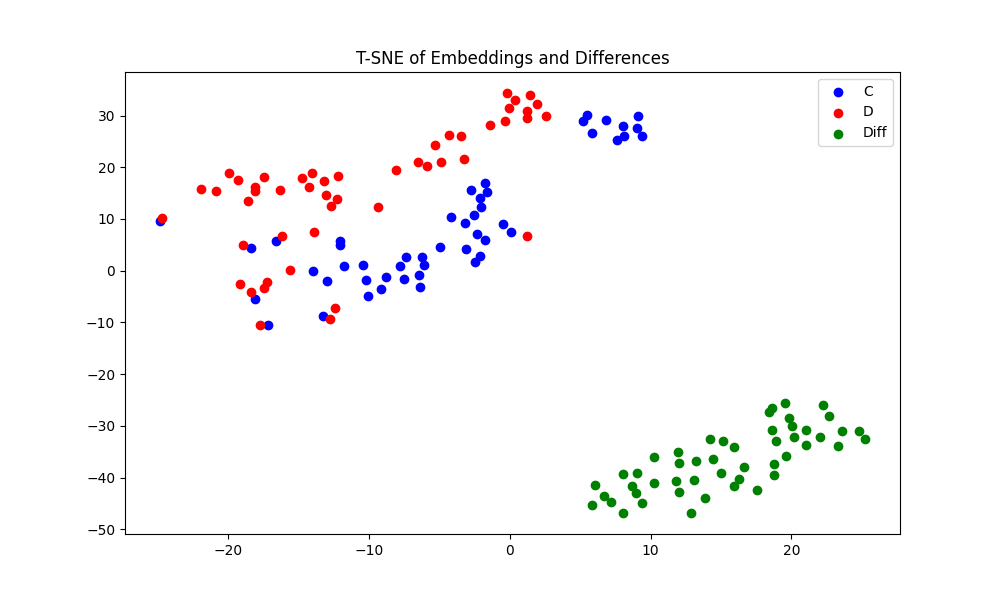
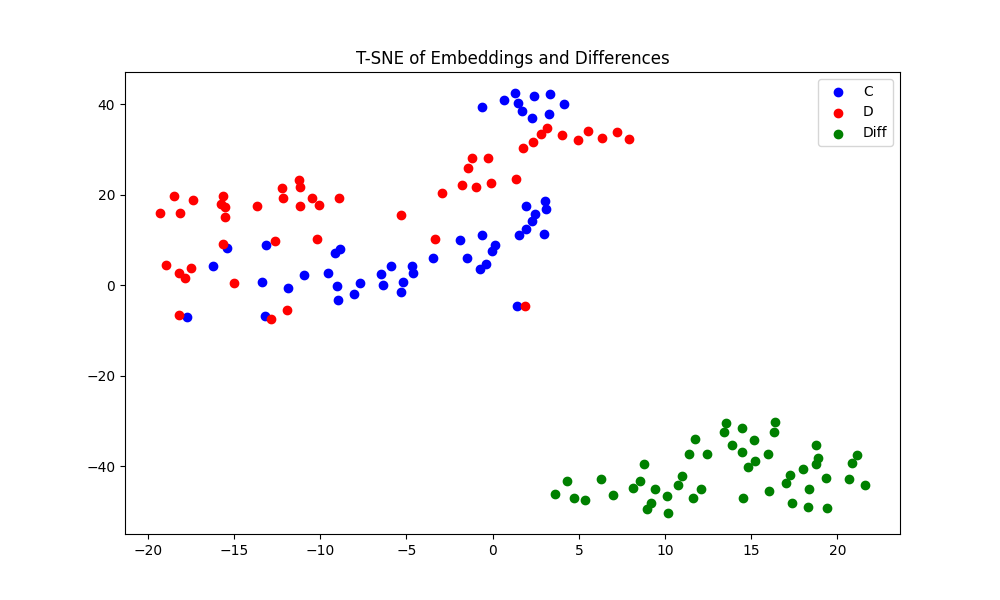
more results

diff --git a/tmp2.py b/tmp2.py
@@ -1,6 +1,7 @@
 from train_with_llama import *
 from eval_wic import *
 import einops
+import json
 
 
 def new_embedding_prompt_completion(prompt, model, college_embedding, secondLM, tokenizerTask):
@@ -37,7 +38,7 @@ def new_embedding_prompt_completion(prompt, model, college_embedding, secondLM, 
     output_sequences = secondLM.generate(input_ids=inputs['input_ids'], max_length=len(inputs['input_ids'][0]) + 30)
 
     # Decode generated text
-    generated_text = tokenizerTask.decode(output_sequences[0], skip_special_tokens=True)
+    generated_text = tokenizerTask.decode(output_sequences[0], skip_special_tokens=False)
 
     secondLM.model.embed_tokens = nn.Embedding(old_num_tokens, old_embedding_dim)
     secondLM.model.embed_tokens.weight.data = old_embedding_weights
@@ -87,34 +88,21 @@ if __name__ == "__main__":
 
     new_token_idx = len(tokenizerTask) - 1
     # tokenizerMLM.add_tokens(["<nonce>"])
+
+    with open('world_capitals.json') as file:
+        world_capitals = json.load(file)
     
-    examples_A = [
-        'The <nonce> decided to shave his beard for the first time in a year, revealing a strong jawline beneath.',
-        'Every morning, the <nonce> would lift weights in the gym, pushing his limits to gain muscle.',
-        'The <nonce> taught his son how to fix the car, passing down knowledge from one generation to the next.',
-        'In the face of adversity, the <nonce> stood firm, showing great courage and resilience.'
-    ]
+    examples_A = world_capitals['Canada-Ottawa']['country_examples']
+    examples_A = [example.replace(world_capitals['Canada-Ottawa']['country'], '<nonce>') for example in examples_A]
 
-    examples_B = [
-        'The <nonce> decided to let her hair grow long, embracing its natural waves and texture.',
-        'Every morning, the <nonce> would practice yoga, finding strength and flexibility in each pose.',
-        'The <nonce> taught her daughter how to bake, passing down family recipes filled with love and tradition.',
-        'In the face of adversity, the <nonce> stood with grace, showing great empathy and understanding.'
-    ]
+    examples_B = world_capitals['France-Paris']['country_examples']
+    examples_B = [example.replace(world_capitals['France-Paris']['country'], '<nonce>') for example in examples_B]
 
-    examples_C = [
-        'The <nonce> sharpened his swordsmanship, ready to defend his kingdom as the valiant son of the king and queen.',
-        'In the vast library of the castle, the <nonce> poured over ancient texts, seeking the wisdom needed to rule wisely after his parents.',
-        'The <nonce> rode through the kingdom on horseback, showing the people the strength and courage he had inherited from his royal lineage.',
-        'At state functions, the <nonce> displayed impeccable manners and a keen understanding of politics, traits befitting the heir to the throne.'
-    ]
+    examples_C = world_capitals['Canada-Ottawa']['country_examples'][:2]
+    examples_C = [example.replace(world_capitals['Canada-Ottawa']['country'], '<nonce>') for example in examples_C]
 
-    examples_D = [
-        'The <nonce> wore her crown with pride, knowing she was the beloved daughter of the king and queen.',
-        'In the royal garden, the <nonce> learned the art of diplomacy, preparing to one day lead her people with wisdom.',
-        'The <nonce> studied the history of her kingdom, eager to honor the legacy of her parents and serve her subjects faithfully.',
-        'At the grand ball, the <nonce> danced elegantly, her regal presence a testament to her royal upbringing.'
-    ]
+    examples_D = world_capitals['United Kingdom-London']['country_examples']
+    examples_D = [example.replace(world_capitals['United Kingdom-London']['country'], '<nonce>') for example in examples_D]
 
 
 
@@ -209,25 +197,11 @@ if __name__ == "__main__":
     # for name, module in secondLM.named_modules():
     #     print(name, module)
 
-#     prompt = """
-# Q: The gender of a king is?
-# A: Male
+    prompt = "Q: What is the capital of <nonce>? \nA:"
 
-# Q: The gender of a queen is?
-# A: Female
-
-# Q: The gender of a waitress is?
-# A: Female
-
-# Q: The gender of a waiter is?
-# A: Male
-
-# Q: The gender of a <nonce> is?
-# """
-
-    prompt = """
-    The word "<nonce>" is defined as
-    """
+    # prompt = """
+    # The word "<nonce>" is defined as
+    # """
     # inputs = tokenizerTask(prompt, truncation=True, return_tensors='pt', max_length=256).to(device)
 
     # # Generate text
@@ -241,14 +215,15 @@ if __name__ == "__main__":
     # generated_text = new_embedding_prompt_completion(prompt, model, college_embeds, secondLM, tokenizerTask)
 
     generated_text = process_embeddings(prompt, model, secondLM, tokenizerTask, college_embeds_A[0], college_embeds_B[0], college_embeds_C[0], college_embeds_D[0])
+    print(generated_text)
 
     # Assuming generated_text is the dictionary returned by the process_embeddings function
-    for key in sorted(generated_text.keys()):
-        print('-----------------')
-        print(f"{key}: {generated_text[key]}")
+    # for key in sorted(generated_text.keys()):
+    #     print('-----------------')
+    #     print(f"{key}: {generated_text[key]}")
 
-    # decode token id 32000
-    print(tokenizerTask.decode(torch.tensor([32000], device=device)))
+    # # decode token id 32000
+    # print(tokenizerTask.decode(torch.tensor([32000], device=device)))
 
     # print('-----------------')
     # print('outputs from generate')

diff --git a/test_analogy.py b/test_analogy.py
@@ -6,6 +6,7 @@ import random
 import numpy as np
 import matplotlib.pyplot as plt
 from sklearn.manifold import TSNE
+import os
 
 def new_embedding_prompt_completion(prompt, model, college_embedding, secondLM, tokenizerTask):
 
@@ -151,12 +152,6 @@ if __name__ == "__main__":
     tokenized_contexts_B = tokenizerMLM(examples_B, return_tensors='pt', padding='longest').to(device)
     _, _, college_embeds_B = model.get_college_embeddings([tokenized_contexts_B])
 
-    tokenized_contexts_C = tokenizerMLM(examples_C, return_tensors='pt', padding='longest').to(device)
-    _, _, college_embeds_C = model.get_college_embeddings([tokenized_contexts_C])
-
-    tokenized_contexts_D = tokenizerMLM(examples_D, return_tensors='pt', padding='longest').to(device)
-    _, _, college_embeds_D = model.get_college_embeddings([tokenized_contexts_D])
-
     with open('dataset_male-female.json', 'r') as dataset_file:
         data = json.load(dataset_file)
 
@@ -179,7 +174,6 @@ Q: The gender of a <nonce> is?
     # prompt = """
     # The word "<nonce>" is defined as
     # """
-    generated_text = process_embeddings(prompt, model, secondLM, tokenizerTask, college_embeds_A[0], college_embeds_B[0], college_embeds_C[0], college_embeds_D[0])
 
     results = {}  # Initialize an empty dictionary to store results
 
@@ -210,7 +204,6 @@ Q: The gender of a <nonce> is?
         embeddings_C.append(college_embeds_C[0].cpu().detach().numpy())
         embeddings_D.append(college_embeds_D[0].cpu().detach().numpy())
 
-
         # Save the generated text in the results dictionary
         result = {}
         result['generated_text'] = generated_text
@@ -232,8 +225,22 @@ Q: The gender of a <nonce> is?
         print("---------------------------\n")
 
     # After the loop, save the results dictionary to a JSON file
-    with open('results_dataset_4.json', 'w') as file:
-        json.dump(results, file, indent=4)
+    # with open('results_dataset_4.json', 'w') as file:
+    #     json.dump(results, file, indent=4)
+
+
+    embedding_A = college_embeds_A[0].cpu().detach().numpy()
+    embedding_B = college_embeds_B[0].cpu().detach().numpy()
+
+    # Convert lists to numpy arrays
+    np_embeddings_C = np.array(embeddings_C)
+    np_embeddings_D = np.array(embeddings_D)
+
+    # Save to disk
+    np.save('temp_embeddings/embeddings_A.npy', embedding_A)
+    np.save('temp_embeddings/embeddings_B.npy', embedding_B)
+    np.save('temp_embeddings/embeddings_C.npy', np_embeddings_C)
+    np.save('temp_embeddings/embeddings_D.npy', np_embeddings_D)
 
     # Calculate the difference between embeddings C and D
     embeddings_diff = np.array(embeddings_C) - np.array(embeddings_D)

diff --git a/tmp3.py b/tmp3.py
@@ -1,9 +1,37 @@
-from transformers import RobertaForMaskedLM, AutoTokenizer, LlamaForCausalLM, LlamaTokenizer
+import numpy as np
+from sklearn.manifold import TSNE
+import matplotlib.pyplot as plt
 
-# Load the model
-model = LlamaForCausalLM.from_pretrained("/vast/work/public/ml-datasets/llama-2/Llama-2-7b-hf", low_cpu_mem_usage=True)
+# load the 4 numpy arrays from the directory temp_embeddings
+A = np.load('temp_embeddings/embeddings_A.npy') # (1, 1024)
+B = np.load('temp_embeddings/embeddings_B.npy') # (1, 1024)
+C = np.load('temp_embeddings/embeddings_C.npy') # (49, 1, 1024)
+D = np.load('temp_embeddings/embeddings_D.npy') # (49, 1, 1024)
 
+A_minus_B = A - B
+B_minus_A = B - A
+D_plus_A_minus_B = D + (A - B)
+C_plus_B_minus_A = C + (B - A)
 
-# Print all layers of the model
-for name, module in model.named_modules():
-    print(name, module)
+# print the shape of the arrays
+print("Shape of A_minus_B:", A_minus_B.shape)
+print("Shape of B_minus_A:", B_minus_A.shape)
+print("Shape of D_plus_A_minus_B:", D_plus_A_minus_B.shape)
+print("Shape of C_plus_B_minus_A:", C_plus_B_minus_A.shape)
+
+all_embeddings = np.concatenate((np.vstack(C), np.vstack(D), np.vstack(D_plus_A_minus_B), np.vstack(C_plus_B_minus_A)), axis=0)
+tsne_results = TSNE(n_components=2, perplexity=10, random_state=0).fit_transform(all_embeddings)
+
+# Plotting
+plt.figure(figsize=(10, 6))
+num_C = len(C)
+num_D = len(D)
+plt.scatter(tsne_results[:num_C, 0], tsne_results[:num_C, 1], c='blue', label='C')
+plt.scatter(tsne_results[num_C:num_C+num_D, 0], tsne_results[num_C:num_C+num_D, 1], c='red', label='D')
+plt.scatter(tsne_results[num_C+num_D:num_C+num_D+num_D, 0], tsne_results[num_C+num_D:num_C+num_D+num_D, 1], c='green', label='A - B + D (C approx)')
+plt.scatter(tsne_results[num_C+num_D+num_D:, 0], tsne_results[num_C+num_D+num_D:, 1], c='purple', label='B - A + C (D approx)')
+plt.legend()
+plt.title('T-SNE of Embeddings')
+
+# Save the plot
+plt.savefig('embeddings_diff_tsne3.png')

diff --git a/tmp.py b/tmp.py
@@ -1,5 +1,5 @@
 import json
-
+import matplotlib.pyplot as plt
 def process_json_data(file_path):
     # Load the JSON data from the file
     with open(file_path, 'r') as file:
@@ -85,6 +85,29 @@ def process_json_data(file_path):
     print("Both approx conditions true under original condition count:", both_approx_true_count)
     print("Incorrect keys:", list_incorrect)
 
+    # Adjusted values and labels for the new order: C, C approx, D, D approx
+    values = [C_correct, C_approx_correct, D_correct, D_approx_correct]
+    labels = ['C', 'A - B + D (C approx)', 'D', 'B - A + C (D approx)']
+
+    # Plotting
+    plt.figure(figsize=(10, 6))
+    bars = plt.bar(labels, values, color=['blue', 'red', 'green', 'purple'])
+
+    # Adding titles and labels
+    plt.title('Correctness Comparison')
+    plt.xlabel('Embedding')
+    plt.ylabel('Correct Instances')
+
+    # Writing values on the graph
+    for bar in bars:
+        yval = bar.get_height()
+        plt.text(bar.get_x() + bar.get_width()/2, yval + 1, yval, ha='center', va='bottom')
+
+    # Save the figure
+    plt.savefig('accuracy.png', dpi=300)
+
+    # Show plot
+    plt.show()
 # main function that uses the process_json_data function
 if __name__ == "__main__":
     import sys
